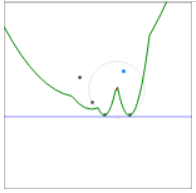
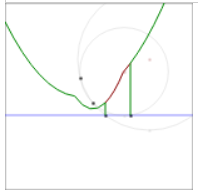
change pictures for sweep line fortune alg

Changed region(s): [[0.0, 0.0, 1.0, 0.9948], [0.398, 0.3731, 0.4286, 0.4041]]

diff --git a/uebungen/blatt06/blatt06.tex b/uebungen/blatt06/blatt06.tex
@@ -110,14 +110,38 @@ showstringspaces=false}
 \section*{Aufgabe 2 - Fortune-Sweep}
 
 
-\begin{figure} [ht] 
+\begin{figure} [!htb] 
 	\subfigure[Schritt 1]{\includegraphics[width=0.5\textwidth]{01.png}} 
     \subfigure[Schritt 2]{\includegraphics[width=0.5\textwidth]{02.png}} 
     \subfigure[Schritt 3]{\includegraphics[width=0.5\textwidth]{03.png}} 
     \subfigure[Schritt 4]{\includegraphics[width=0.5\textwidth]{04.png}} 
-%\caption{test}
-\label{test} 
+    \subfigure[Schritt 4]{\includegraphics[width=0.5\textwidth]{05.png}} 
+    \subfigure[Schritt 6]{\includegraphics[width=0.5\textwidth]{06.png}} 
 \end{figure} 
+
+Quelle: http://www.raymondhill.net/voronoi/rhill-voronoi.html
+
+Total number of sites processed: 4
+Number of binary searches: 6
+Avg number of iterations per binary search: 1.33
+Number of parabolic cut calculations: 29 out of 69 total
+Average beachline size: 4.00
+Average circle event queue size: 0.75
+Total number of cancelled circle events: 1 out of 3 total (33%)
+Largest circle events queue size: 2 events
+Number of destroyed edges (outside the viewport): 0 out of a total of 5 edges
+
+Beachline is composed of 5 beach sections:
+edge: none
+xl=-Infinity, xr=53.3429, site={id:1, x:60, y:60}
+edge: id=44, start=(x:95.0, y:55.0), end=(x:0.0, y:102.5)
+xl=53.3429, xr=74.1682, site={id:2, x:70, y:80}
+edge: id=45, start=(x:90.0, y:70.0), end=(x:10.0, y:150.0)
+xl=74.1682, xr=90.0000, site={id:3, x:80, y:90}
+edge: id=48, start=(x:90.0, y:70.0), end=(x:90.0, y:150.0)
+xl=90.0000, xr=120.5831, site={id:4, x:100, y:90}
+edge: id=46, start=(x:95.0, y:55.0), end=(x:136.3, y:0.0)
+xl=120.5831, xr=Infinity, site={id:1, x:60, y:60}
 
 \section*{Aufgabe 3 - Durchschnitt einfacher Polygone}
 
